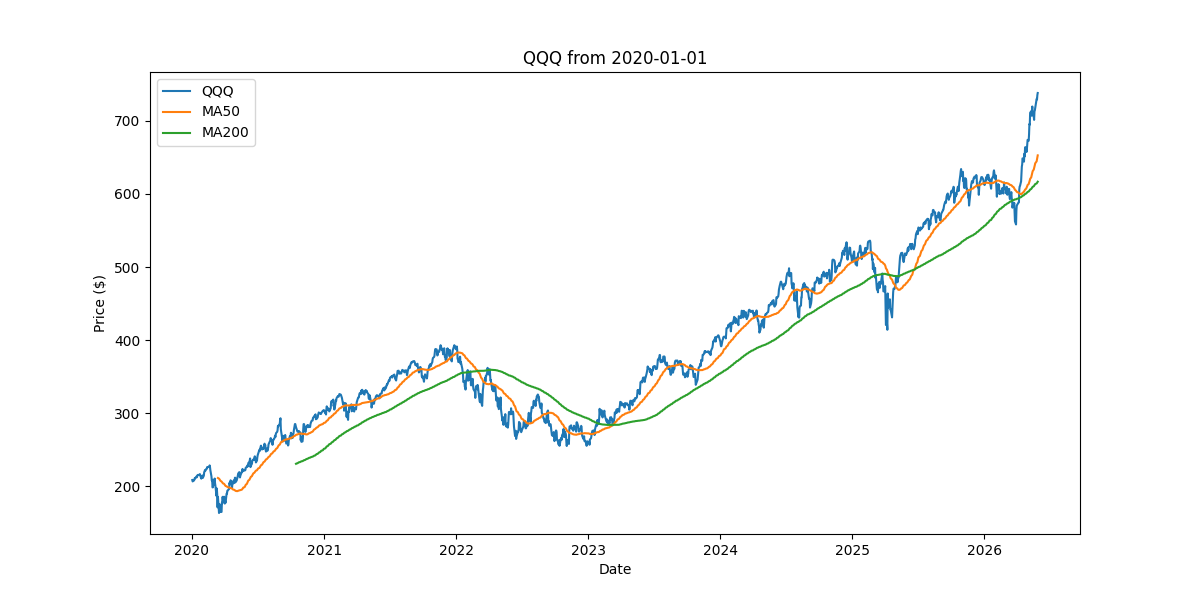
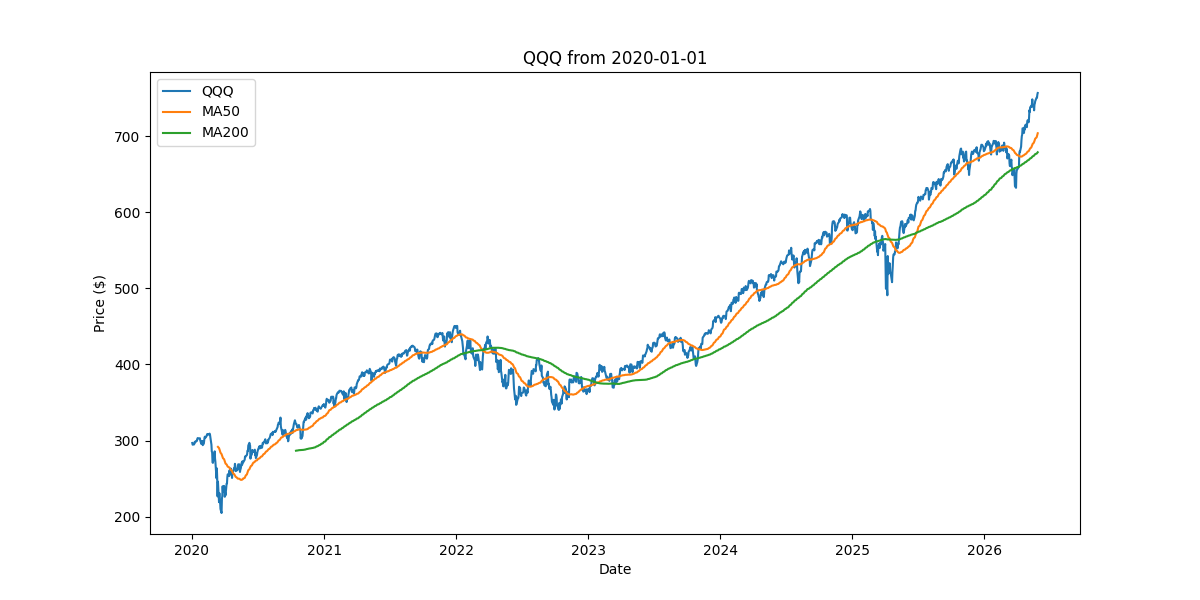
Add benchmark comparison between QQQ and SPY

diff --git a/src/main.py b/src/main.py
@@ -2,59 +2,42 @@ import pandas as pd
 import numpy as np
 import yfinance as yf
 import matplotlib.pyplot as plt
-
-ticker = "QQQ"
-
-data = yf.download(ticker, start="2020-01-01")
-data.columns = data.columns.droplevel(1)
-
-print(data.head())
-print(data.shape)
-print(data.columns)
-
-print(data.isnull().sum())
-print(data.describe())
-
-data["Daily Return"] = data["Close"].pct_change()
-print(data.head())
-
-average_return = data["Daily Return"].mean()
-print(f"Average Return: {average_return:.2%}")
-
-best_day = data["Daily Return"].max()
-print(f"Best day: {best_day:.2%}")
-
-worst_day = data["Daily Return"].min()
-print(f"Worst day: {worst_day:.2%}")
-
-daily_volatility = data["Daily Return"].std()
-print(f"Daily Volatility: {daily_volatility:.2%}")
-
-annual_volatility = daily_volatility * np.sqrt(252)
-print(f"Annual Volatility: {annual_volatility:.2%}")
-
-data["Peak"] = data["Close"].cummax()
-data["Drawdown"] = (data["Close"] - data["Peak"]) / data["Peak"]
-max_drawdown = data["Drawdown"].min()
-print(f"Maximum Drawdown: {max_drawdown:.2%}")
-
-data["MA50"] = data["Close"].rolling(50).mean()
-data["MA200"] = data["Close"].rolling(200).mean()
-print(data[["Close", "MA50", "MA200"]].tail())
+from metrics import analyze_ticker
+from data_loader import load_data
 
 
-plt.figure(figsize=(12, 6))
+qqq_data = load_data("QQQ")
+spy_data = load_data("SPY")
 
-plt.plot(data.index, data["Close"], label = "QQQ")
-plt.plot(data.index, data["MA50"], label = "MA50")
-plt.plot(data.index, data["MA200"], label = "MA200")
+qqq_metrics = analyze_ticker(qqq_data)
+spy_metrics = analyze_ticker(spy_data)
 
-plt.xlabel("Date")
-plt.ylabel("Price ($)")
-plt.title("QQQ from 2020-01-01")
-plt.legend()
 
-plt.savefig("images/qqq_analysis.png")
 
-plt.show()
+comparison = pd.DataFrame({
+    "Metric": [
+        "Annual Return",
+        "Annual Volatility",
+        "Maximum Drawdown",
+        "Sharpe Ratio"
+    ],
+    "QQQ": [
+        qqq_metrics["annual_return"],
+        qqq_metrics["annual_volatility"],
+        qqq_metrics["max_drawdown"],
+        qqq_metrics["sharpe_ratio"]
+    ],
+    "SPY": [
+        spy_metrics["annual_return"],
+        spy_metrics["annual_volatility"],
+        spy_metrics["max_drawdown"],
+        spy_metrics["sharpe_ratio"]
+    ]
+})
 
+print(comparison)
+
+comparison.to_csv(
+    "data/comparison_metrics.csv",
+    index=False
+)

diff --git a/src/metrics.py b/src/metrics.py
@@ -1,0 +1,21 @@
+import pandas as pd
+import numpy as np
+
+def analyze_ticker(data):
+
+    data["Daily Return"] = data["Close"].pct_change()
+    average_return = data["Daily Return"].mean()
+    daily_volatility = data["Daily Return"].std()
+    annual_volatility = daily_volatility * np.sqrt(252)
+    annual_return = average_return * 252
+    data["Peak"] = data["Close"].cummax()
+    data["Drawdown"] = (data["Close"] - data["Peak"]) / data["Peak"]
+    max_drawdown = data["Drawdown"].min()
+    sharpe_ratio = annual_return / annual_volatility
+    
+    return {
+        "annual_return": annual_return,
+        "annual_volatility": annual_volatility,
+        "max_drawdown": max_drawdown,
+        "sharpe_ratio": sharpe_ratio
+    }

diff --git a/src/data_loader.py b/src/data_loader.py
@@ -1,0 +1,11 @@
+import yfinance as yf
+import pandas as pd
+
+def load_data(ticker):
+
+    data = yf.download(ticker, start="2020-01-01")
+
+    if isinstance(data.columns, pd.MultiIndex):
+        data.columns = data.columns.droplevel(1)
+
+    return data